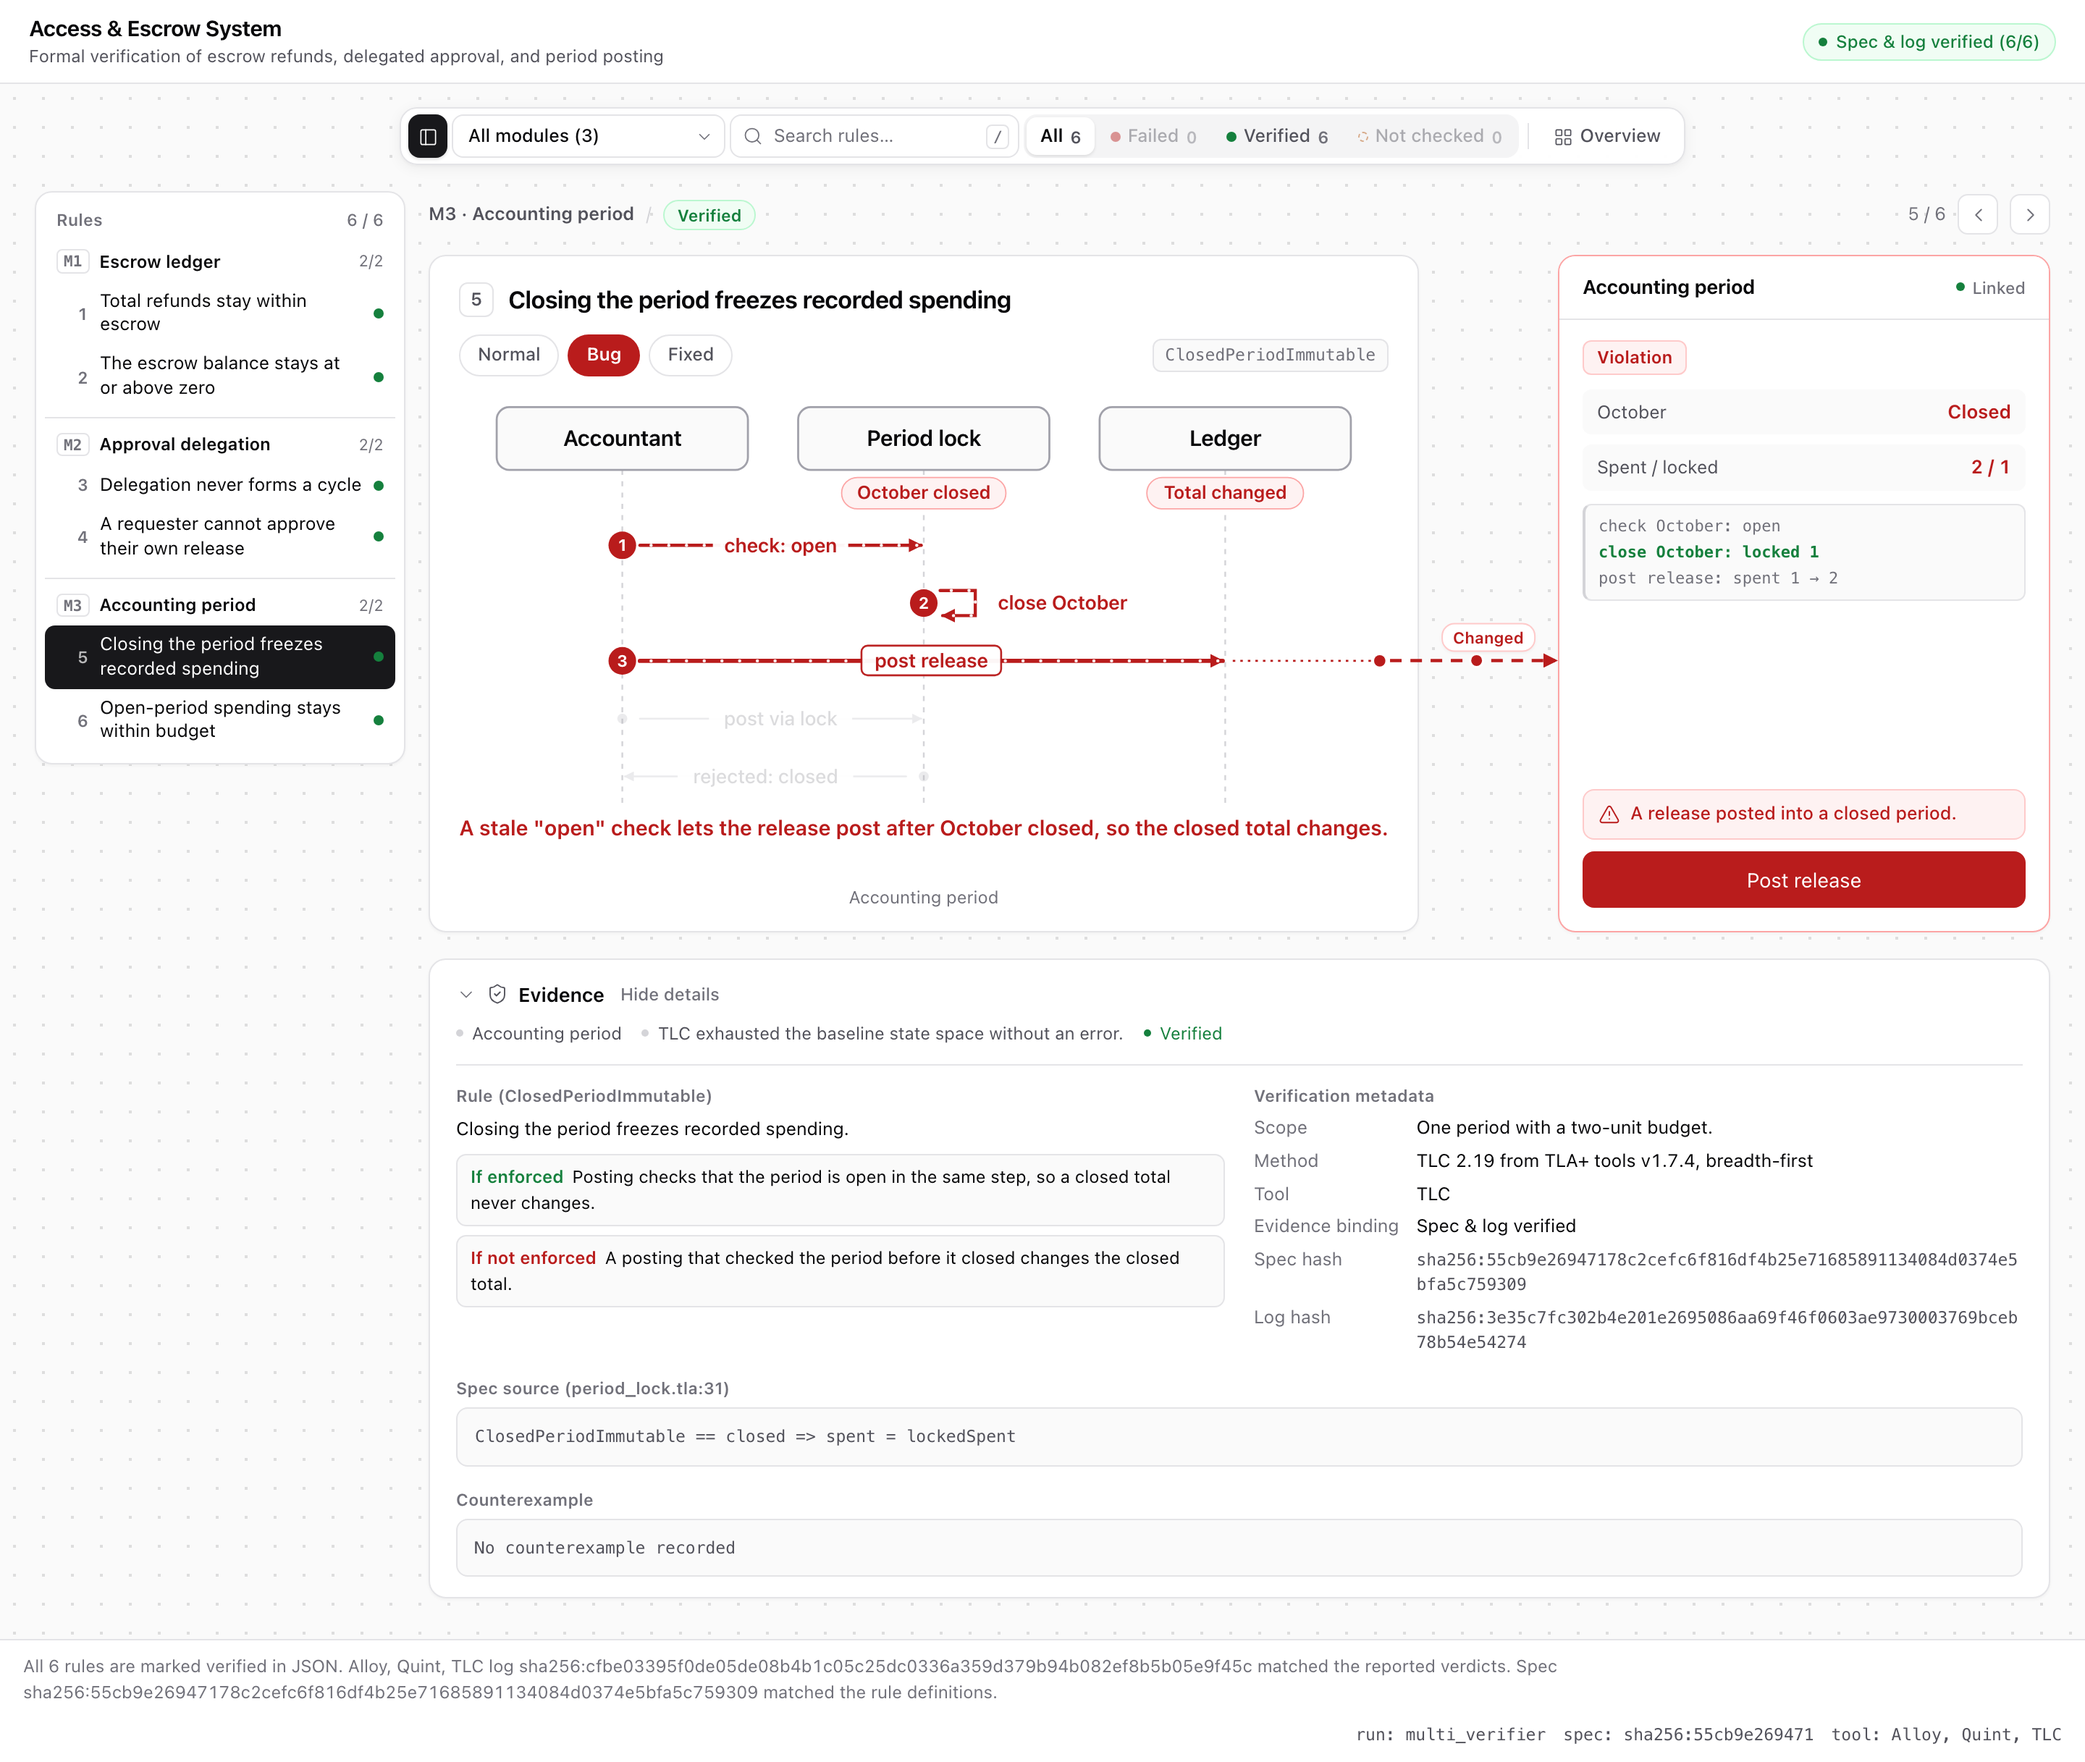
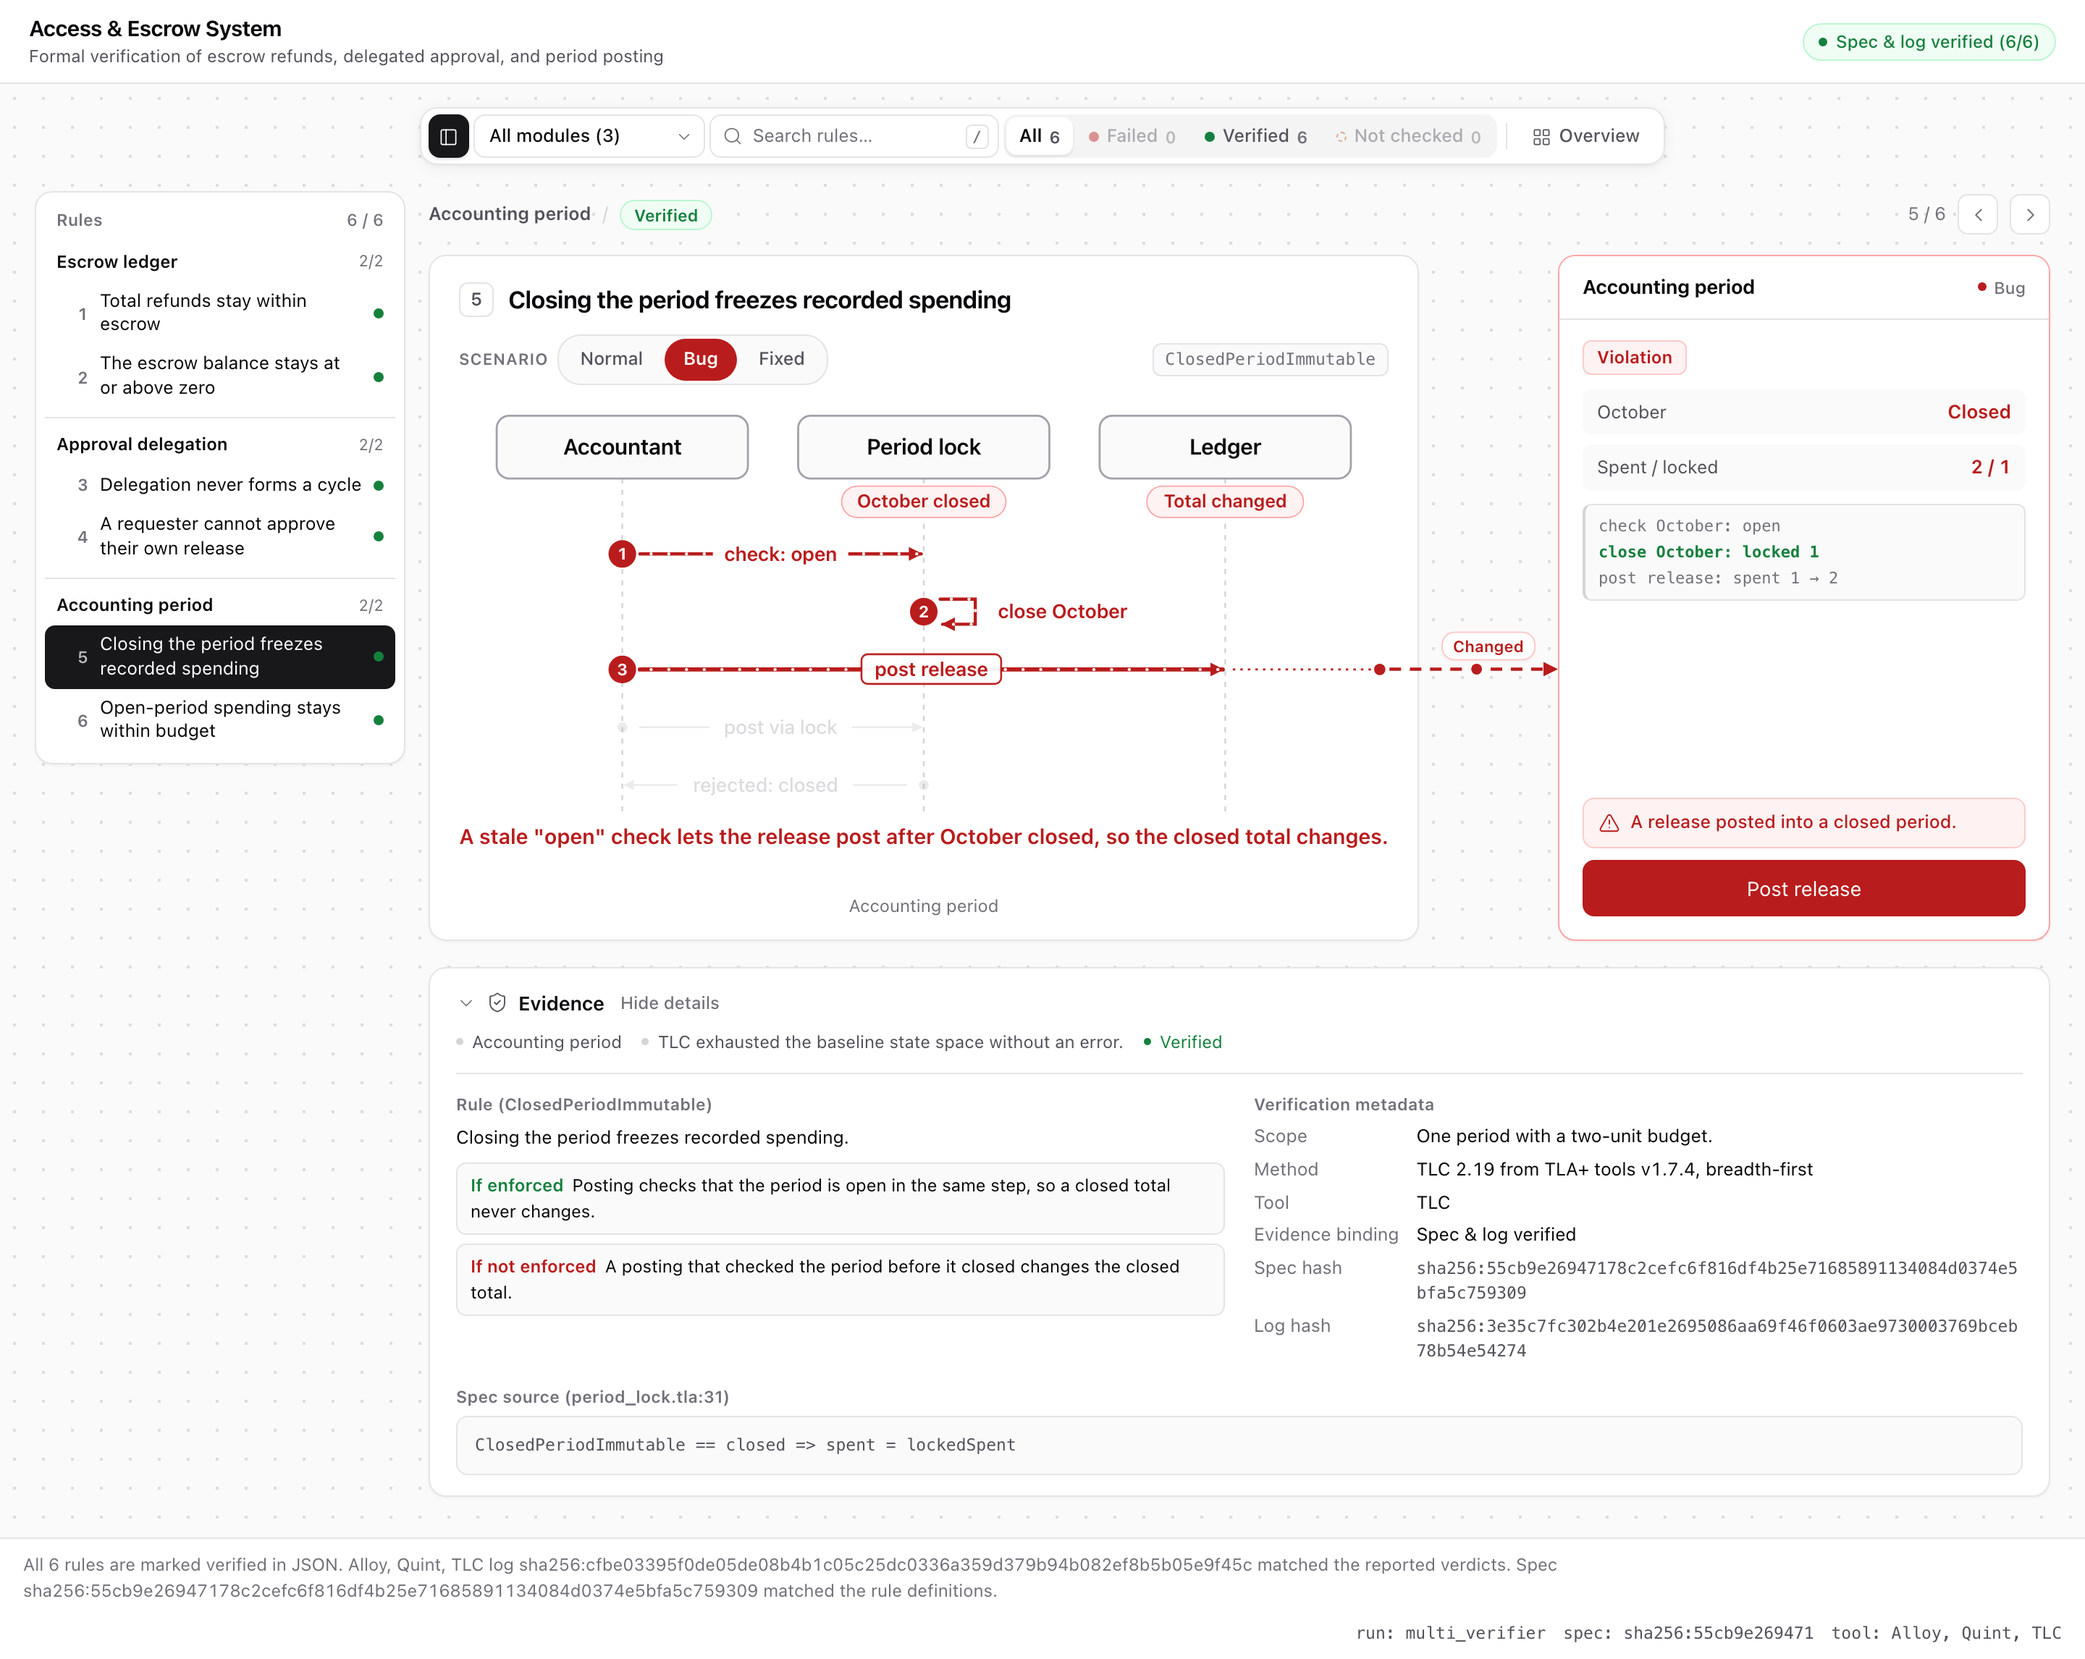
feat(board): plain module titles and a one-rule scenario switch
- Drop the synthesized M1/M2 module codes from the sidebar, breadcrumb,
  module picker and overview cards; modules show their own title.
- Replace the focus chips with a "Scenario" segmented control that switches
  the diagram and the preview together; the preview header names the state.
- A verified rule with evidence.counterexample shows it under
  "Counterexample without this rule"; a verified rule without one shows no
  counterexample section. Failed rules keep "Counterexample".
- Japanese example uses 通常 / ルールなし（壊れる） / ルールあり（防ぐ）.
- SKILL.md: one rule is one card, never split into with/without modules.
- Sequence figures no longer default the focus row to the first step.
- Sweep also checks the scenario cue and preview state label for clipping.
- Recapture the README gallery.

diff --git a/scripts/sweep_figures.py b/scripts/sweep_figures.py
@@ -54,7 +54,7 @@ PROBE_JS = """() => {
       if (w > 0 && h > 0) out.lkOverlap = Math.max(out.lkOverlap, Math.min(w, h));
     }
   }
-  for (const el of root.querySelectorAll('.pv-bar-lbl, .pv-bar-val, .lk-label, .fx button, .pv-v, .pv-k')) {
+  for (const el of root.querySelectorAll('.pv-bar-lbl, .pv-bar-val, .lk-label, .fx button, .fx-cue, .pv-v, .pv-k, .pv-live')) {
     if (el.scrollWidth > el.clientWidth + 1) out.clipped += 1;
   }
   out.connector = root.querySelectorAll('.link-layer .lk-path').length;

diff --git a/skills/proof-canvas/SKILL.md b/skills/proof-canvas/SKILL.md
@@ -167,6 +167,12 @@ relation label collides with another element, shorten it or reorder `nodes`.
 
 **`states.<normal | bug | fixed>`**
 
+One rule is one card. The **Scenario** switch on that card moves the diagram and the screen
+preview together, so put the whole comparison inside one rule: `normal` is the everyday case,
+`bug` is what happens with the rule switched off, and `fixed` is the rule doing its job. Never
+split one rule into two rules or modules ("with rule" and "without rule"): the reader then
+meets two switches that contradict each other.
+
 Every kind:
 
 | Field | Type | Notes |
@@ -205,7 +211,7 @@ By figure kind (chip `tone` is `neutral \| good \| bad`):
 | `scope` | string | Bounds of the check (model size, ranges, number of runs). |
 | `method` | string | How it was checked (exhaustive model checking, bounded simulation, property-based testing with N runs, and so on). |
 | `sourceQuote` | optional string | Verbatim text of the source the rule comes from. |
-| `counterexample` | optional string | Checker trace for a failed rule. |
+| `counterexample` | optional string | Checker trace. On a failed rule it is the failure and shows under **Counterexample**. On a verified rule, use it for the trace of the rule switched off (for example a killed mutant); it shows under **Counterexample without this rule**. When a verified rule has none, the section is left out. |
 
 ## 2. Render
 
